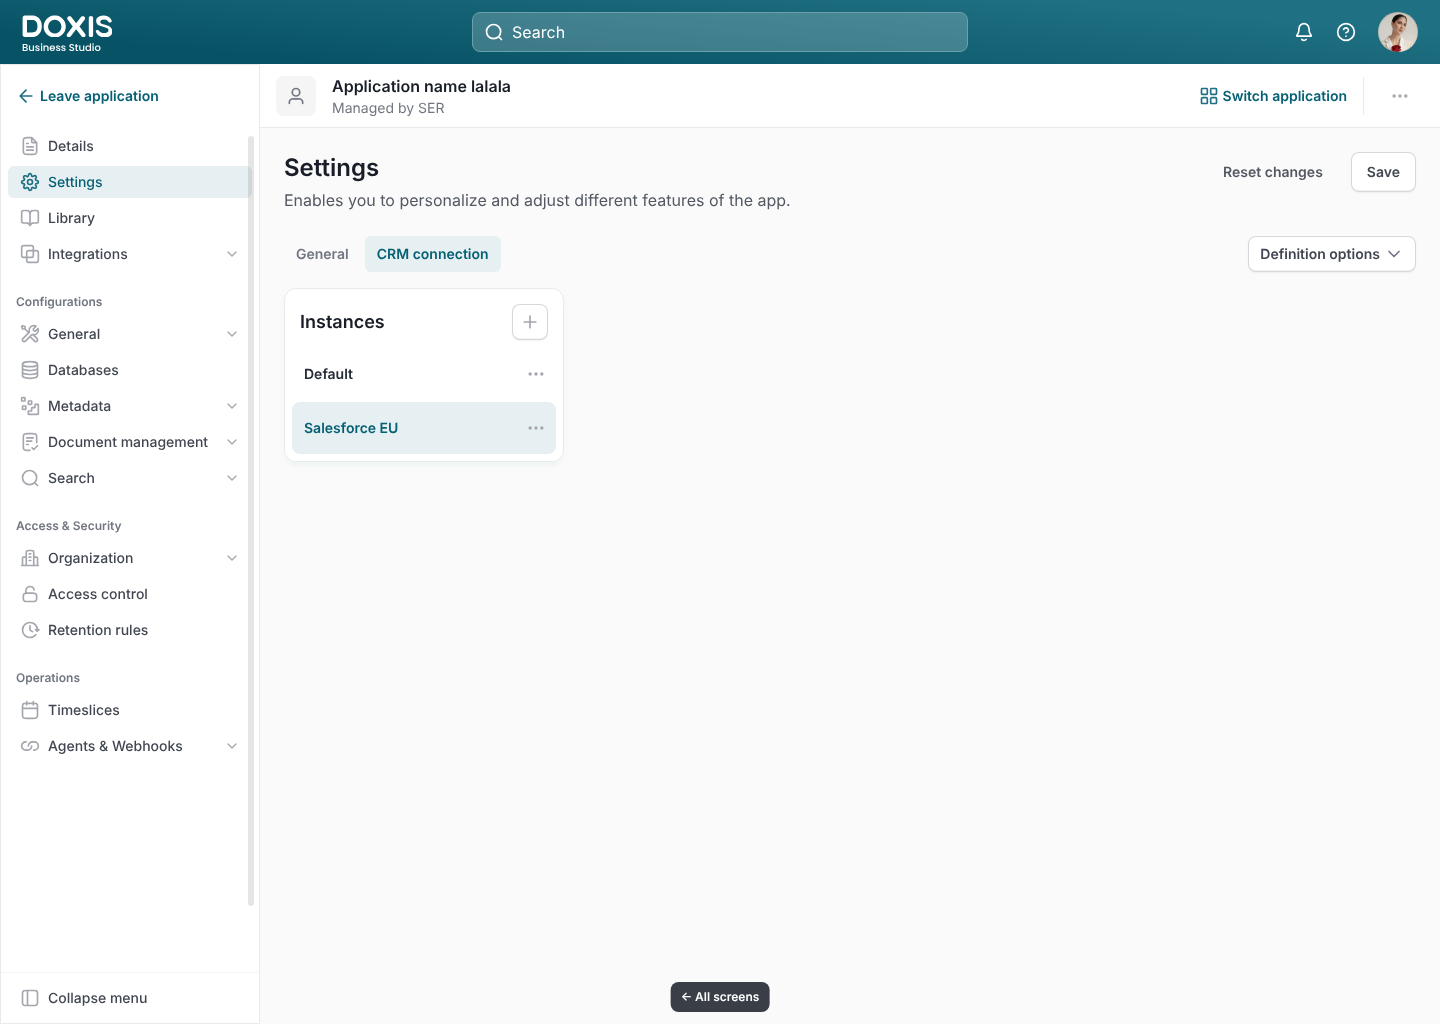
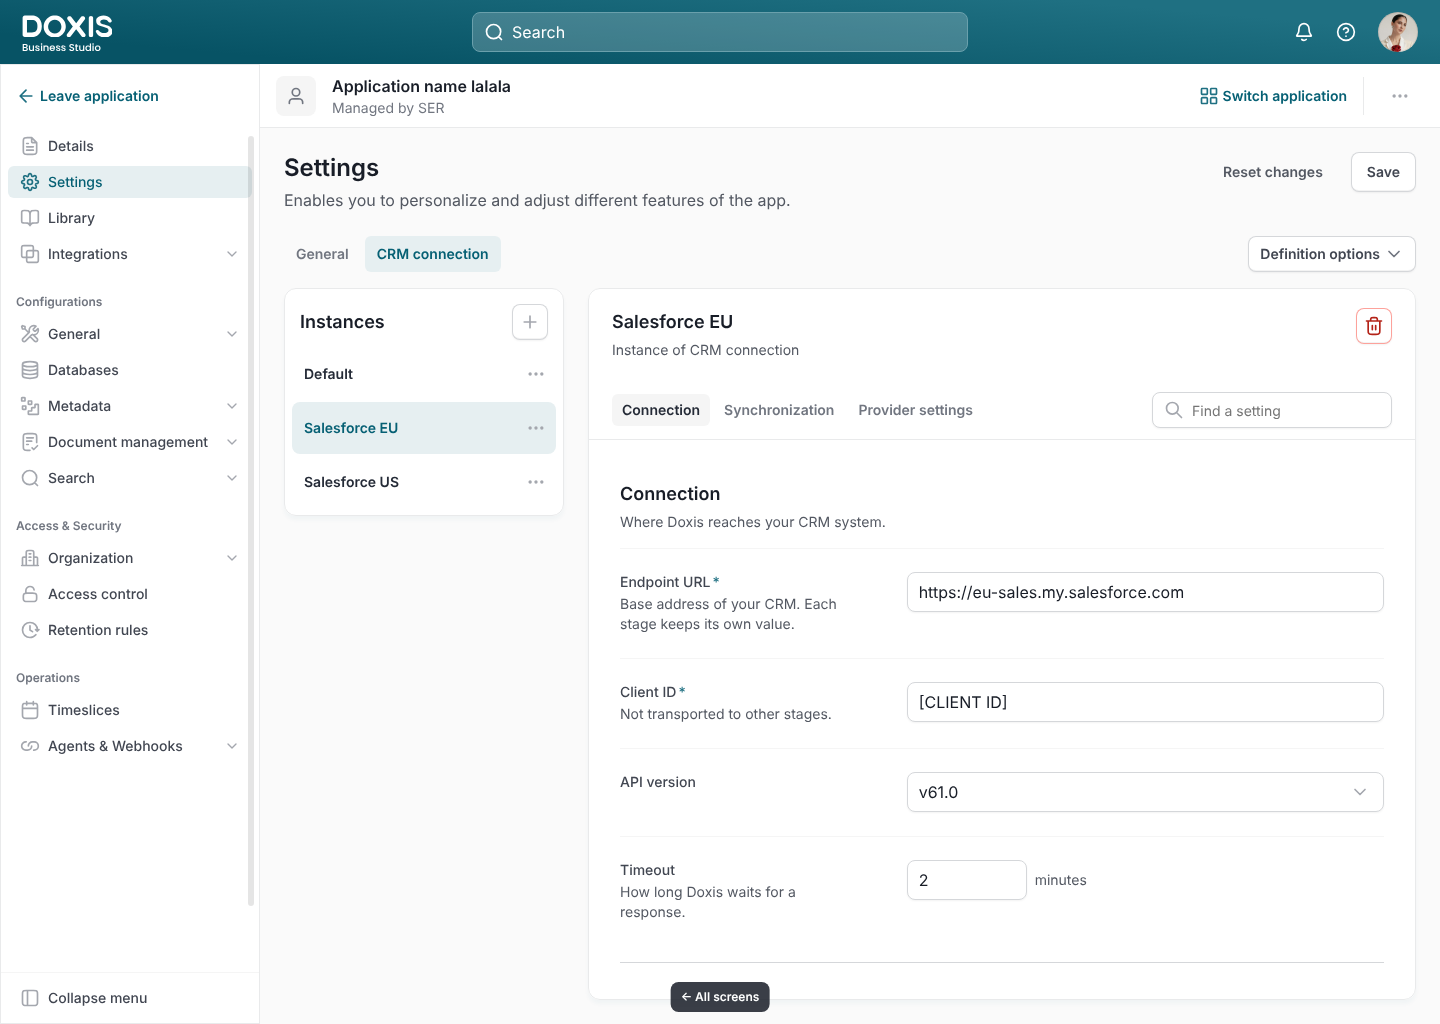
Add files via upload

diff --git a/settings.html b/settings.html
@@ -240,7 +240,7 @@ a{color:#066074}a:hover{color:#05495A}
 </div>
 <ul style="list-style: none; margin: 0; padding: 0 8px 8px; display: flex; flex-direction: column; gap: 2px">
 <li class="ins2"><button class="nm2"><span class="t1">Default</span></button><div style="position: relative"><button class="ib2" aria-label="Actions for Default" aria-haspopup="menu" aria-expanded="false" data-expanded="m.def" data-on="t.def"><svg class="ic" width="20" height="20" viewBox="0 0 24 24" fill="none" stroke="currentColor" stroke-width="2" stroke-linecap="round" stroke-linejoin="round" aria-hidden="true"><path transform="translate(4 11)" d="M9 1C9 1.55 8.55 2 8 2C7.45 2 7 1.55 7 1C7 0.45 7.45 0 8 0C8.55 0 9 0.45 9 1ZM16 1C16 1.55 15.55 2 15 2C14.45 2 14 1.55 14 1C14 0.45 14.45 0 15 0C15.55 0 16 0.45 16 1ZM2 1C2 1.55 1.55 2 1 2C0.45 2 0 1.55 0 1C0 0.45 0.45 0 1 0C1.55 0 2 0.45 2 1Z"></path></svg></button><div data-if="m.def" hidden><div class="mo" role="menu" aria-label="Actions for Default" style="right: 0; top: 36px; min-width: 260px"><button class="moi" role="menuitem" data-on="closeMenu"><svg class="ic" width="20" height="20" viewBox="0 0 24 24" fill="none" stroke="currentColor" stroke-width="2" stroke-linecap="round" stroke-linejoin="round" aria-hidden="true"><path d="M21 15v1.8c0 1.68 0 2.52-.33 3.16a3 3 0 0 1-1.31 1.31C18.72 21.6 17.88 21.6 16.2 21.6H7.8c-1.68 0-2.52 0-3.16-.33a3 3 0 0 1-1.31-1.31C3 19.32 3 18.48 3 16.8V15M17 8l-5-5-5 5M12 3v12"></path></svg>Export settings</button><button class="moi" role="menuitem" data-on="closeMenu"><svg class="ic" width="20" height="20" viewBox="0 0 24 24" fill="none" stroke="currentColor" stroke-width="2" stroke-linecap="round" stroke-linejoin="round" aria-hidden="true"><path d="M21 15v1.8c0 1.68 0 2.52-.33 3.16a3 3 0 0 1-1.31 1.31C18.72 21.6 17.88 21.6 16.2 21.6H7.8c-1.68 0-2.52 0-3.16-.33a3 3 0 0 1-1.31-1.31C3 19.32 3 18.48 3 16.8V15M7 10l5 5 5-5M12 15V3"></path></svg>Import settings</button><button class="moi" role="menuitem" data-on="closeMenu"><svg class="ic" width="20" height="20" viewBox="0 0 24 24" fill="none" stroke="currentColor" stroke-width="2" stroke-linecap="round" stroke-linejoin="round" aria-hidden="true"><path d="M3 21h4.5L19 9.5a3.18 3.18 0 0 0-4.5-4.5L3 16.5V21ZM13.5 6.5l4 4"></path></svg>Rename settings</button><button class="moi" role="menuitem" data-on="closeMenu"><svg class="ic" width="20" height="20" viewBox="0 0 24 24" fill="none" stroke="currentColor" stroke-width="2" stroke-linecap="round" stroke-linejoin="round" aria-hidden="true"><path d="M5 15c-.93 0-1.4 0-1.78-.1a3 3 0 0 1-2.12-2.12C1 12.4 1 11.93 1 11V4.2c0-1.12 0-1.68.22-2.11A2 2 0 0 1 2.09 1.22C2.52 1 3.08 1 4.2 1H11c.93 0 1.4 0 1.78.1a3 3 0 0 1 2.12 2.12c.1.38.1.85.1 1.78M10.2 23h6.6c1.12 0 1.68 0 2.11-.22a2 2 0 0 0 .87-.87c.22-.43.22-.99.22-2.11v-6.6c0-1.12 0-1.68-.22-2.11a2 2 0 0 0-.87-.87C18.48 10 17.92 10 16.8 10h-6.6c-1.12 0-1.68 0-2.11.22a2 2 0 0 0-.87.87C7 11.52 7 12.08 7 13.2v6.6c0 1.12 0 1.68.22 2.11a2 2 0 0 0 .87.87c.43.22.99.22 2.11.22Z" transform="translate(1.5 0) scale(0.9)"></path></svg>Copy settings</button><button class="moi" role="menuitem" data-on="closeMenu"><svg class="ic" width="20" height="20" viewBox="0 0 24 24" fill="none" stroke="currentColor" stroke-width="2" stroke-linecap="round" stroke-linejoin="round" aria-hidden="true"><path d="M2 10s2.005-2.732 3.634-4.362a9 9 0 1 1-2.282 8.862M2 10V4m0 6h6"></path></svg>Restore default settings</button><button class="moi" role="menuitem" data-on="closeMenu"><svg class="ic" style="color: #D92D20" width="20" height="20" viewBox="0 0 24 24" fill="none" stroke="currentColor" stroke-width="2" stroke-linecap="round" stroke-linejoin="round" aria-hidden="true"><path d="M16 6v-.8c0-1.12 0-1.68-.22-2.11a2 2 0 0 0-.87-.87C14.48 2 13.92 2 12.8 2h-1.6c-1.12 0-1.68 0-2.11.22a2 2 0 0 0-.87.87C8 3.52 8 4.08 8 5.2V6M10 11.5v5M14 11.5v5M3 6h18M19 6v11.2c0 1.68 0 2.52-.33 3.16a3 3 0 0 1-1.31 1.31c-.64.33-1.48.33-3.16.33H9.8c-1.68 0-2.52 0-3.16-.33a3 3 0 0 1-1.31-1.31C5 19.72 5 18.88 5 17.2V6"></path></svg>Delete settings</button></div></div></div></li>
-<li class="ins2 on"><button class="nm2" aria-current="true"><span class="t1">Salesforce EU</span></button><div style="position: relative"><button class="ib2" aria-label="Actions for Salesforce EU" aria-haspopup="menu" aria-expanded="false" data-expanded="m.eu" data-on="t.eu"><svg class="ic" width="20" height="20" viewBox="0 0 24 24" fill="none" stroke="currentColor" stroke-width="2" stroke-linecap="round" stroke-linejoin="round" aria-hidden="true"><path transform="translate(4 11)" d="M9 1C9 1.55 8.55 2 8 2C7.45 2 7 1.55 7 1C7 0.45 7.45 0 8 0C8.55 0 9 0.45 9 1ZM16 1C16 1.55 15.55 2 15 2C14.45 2 14 1.55 14 1C14 0.45 14.45 0 15 0C15.55 0 16 0.45 16 1ZM2 1C2 1.55 1.55 2 1 2C0.45 2 0 1.55 0 1C0 0.45 0.45 0 1 0C1.55 0 2 0.45 2 1Z"></path></svg></button><div data-if="m.eu" hidden><div class="mo" role="menu" aria-label="Actions for Salesforce EU" style="right: 0; top: 36px; min-width: 260px"><button class="moi" role="menuitem" data-on="closeMenu"><svg class="ic" width="20" height="20" viewBox="0 0 24 24" fill="none" stroke="currentColor" stroke-width="2" stroke-linecap="round" stroke-linejoin="round" aria-hidden="true"><path d="M21 15v1.8c0 1.68 0 2.52-.33 3.16a3 3 0 0 1-1.31 1.31C18.72 21.6 17.88 21.6 16.2 21.6H7.8c-1.68 0-2.52 0-3.16-.33a3 3 0 0 1-1.31-1.31C3 19.32 3 18.48 3 16.8V15M17 8l-5-5-5 5M12 3v12"></path></svg>Export settings</button><button class="moi" role="menuitem" data-on="closeMenu"><svg class="ic" width="20" height="20" viewBox="0 0 24 24" fill="none" stroke="currentColor" stroke-width="2" stroke-linecap="round" stroke-linejoin="round" aria-hidden="true"><path d="M21 15v1.8c0 1.68 0 2.52-.33 3.16a3 3 0 0 1-1.31 1.31C18.72 21.6 17.88 21.6 16.2 21.6H7.8c-1.68 0-2.52 0-3.16-.33a3 3 0 0 1-1.31-1.31C3 19.32 3 18.48 3 16.8V15M7 10l5 5 5-5M12 15V3"></path></svg>Import settings</button><button class="moi" role="menuitem" data-on="closeMenu"><svg class="ic" width="20" height="20" viewBox="0 0 24 24" fill="none" stroke="currentColor" stroke-width="2" stroke-linecap="round" stroke-linejoin="round" aria-hidden="true"><path d="M3 21h4.5L19 9.5a3.18 3.18 0 0 0-4.5-4.5L3 16.5V21ZM13.5 6.5l4 4"></path></svg>Rename settings</button><button class="moi" role="menuitem" data-on="closeMenu"><svg class="ic" width="20" height="20" viewBox="0 0 24 24" fill="none" stroke="currentColor" stroke-width="2" stroke-linecap="round" stroke-linejoin="round" aria-hidden="true"><path d="M5 15c-.93 0-1.4 0-1.78-.1a3 3 0 0 1-2.12-2.12C1 12.4 1 11.93 1 11V4.2c0-1.12 0-1.68.22-2.11A2 2 0 0 1 2.09 1.22C2.52 1 3.08 1 4.2 1H11c.93 0 1.4 0 1.78.1a3 3 0 0 1 2.12 2.12c.1.38.1.85.1 1.78M10.2 23h6.6c1.12 0 1.68 0 2.11-.22a2 2 0 0 0 .87-.87c.22-.43.22-.99.22-2.11v-6.6c0-1.12 0-1.68-.22-2.11a2 2 0 0 0-.87-.87C18.48 10 17.92 10 16.8 10h-6.6c-1.12 0-1.68 0-2.11.22a2 2 0 0 0-.87.87C7 11.52 7 12.08 7 13.2v6.6c0 1.12 0 1.68.22 2.11a2 2 0 0 0 .87.87c.43.22.99.22 2.11.22Z" transform="translate(1.5 0) scale(0.9)"></path></svg>Copy settings</button><button class="moi" role="menuitem" data-on="closeMenu"><svg class="ic" width="20" height="20" viewBox="0 0 24 24" fill="none" stroke="currentColor" stroke-width="2" stroke-linecap="round" stroke-linejoin="round" aria-hidden="true"><path d="M2 10s2.005-2.732 3.634-4.362a9 9 0 1 1-2.282 8.862M2 10V4m0 6h6"></path></svg>Restore default settings</button><button class="moi" role="menuitem" data-on="closeMenu"><svg class="ic" style="color: #D92D20" width="20" height="20" viewBox="0 0 24 24" fill="none" stroke="currentColor" stroke-width="2" stroke-linecap="round" stroke-linejoin="round" aria-hidden="true"><path d="M16 6v-.8c0-1.12 0-1.68-.22-2.11a2 2 0 0 0-.87-.87C14.48 2 13.92 2 12.8 2h-1.6c-1.12 0-1.68 0-2.11.22a2 2 0 0 0-.87.87C8 3.52 8 4.08 8 5.2V6M10 11.5v5M14 11.5v5M3 6h18M19 6v11.2c0 1.68 0 2.52-.33 3.16a3 3 0 0 1-1.31 1.31c-.64.33-1.48.33-3.16.33H9.8c-1.68 0-2.52 0-3.16-.33a3 3 0 0 1-1.31-1.31C5 19.72 5 18.88 5 17.2V6"></path></svg>Delete settings</button></div></div></li></div></div></li></div>
+<li class="ins2 on"><button class="nm2" aria-current="true"><span class="t1">Salesforce EU</span></button><div style="position: relative"><button class="ib2" aria-label="Actions for Salesforce EU" aria-haspopup="menu" aria-expanded="false" data-expanded="m.eu" data-on="t.eu"><svg class="ic" width="20" height="20" viewBox="0 0 24 24" fill="none" stroke="currentColor" stroke-width="2" stroke-linecap="round" stroke-linejoin="round" aria-hidden="true"><path transform="translate(4 11)" d="M9 1C9 1.55 8.55 2 8 2C7.45 2 7 1.55 7 1C7 0.45 7.45 0 8 0C8.55 0 9 0.45 9 1ZM16 1C16 1.55 15.55 2 15 2C14.45 2 14 1.55 14 1C14 0.45 14.45 0 15 0C15.55 0 16 0.45 16 1ZM2 1C2 1.55 1.55 2 1 2C0.45 2 0 1.55 0 1C0 0.45 0.45 0 1 0C1.55 0 2 0.45 2 1Z"></path></svg></button><div data-if="m.eu" hidden><div class="mo" role="menu" aria-label="Actions for Salesforce EU" style="right: 0; top: 36px; min-width: 260px"><button class="moi" role="menuitem" data-on="closeMenu"><svg class="ic" width="20" height="20" viewBox="0 0 24 24" fill="none" stroke="currentColor" stroke-width="2" stroke-linecap="round" stroke-linejoin="round" aria-hidden="true"><path d="M21 15v1.8c0 1.68 0 2.52-.33 3.16a3 3 0 0 1-1.31 1.31C18.72 21.6 17.88 21.6 16.2 21.6H7.8c-1.68 0-2.52 0-3.16-.33a3 3 0 0 1-1.31-1.31C3 19.32 3 18.48 3 16.8V15M17 8l-5-5-5 5M12 3v12"></path></svg>Export settings</button><button class="moi" role="menuitem" data-on="closeMenu"><svg class="ic" width="20" height="20" viewBox="0 0 24 24" fill="none" stroke="currentColor" stroke-width="2" stroke-linecap="round" stroke-linejoin="round" aria-hidden="true"><path d="M21 15v1.8c0 1.68 0 2.52-.33 3.16a3 3 0 0 1-1.31 1.31C18.72 21.6 17.88 21.6 16.2 21.6H7.8c-1.68 0-2.52 0-3.16-.33a3 3 0 0 1-1.31-1.31C3 19.32 3 18.48 3 16.8V15M7 10l5 5 5-5M12 15V3"></path></svg>Import settings</button><button class="moi" role="menuitem" data-on="closeMenu"><svg class="ic" width="20" height="20" viewBox="0 0 24 24" fill="none" stroke="currentColor" stroke-width="2" stroke-linecap="round" stroke-linejoin="round" aria-hidden="true"><path d="M3 21h4.5L19 9.5a3.18 3.18 0 0 0-4.5-4.5L3 16.5V21ZM13.5 6.5l4 4"></path></svg>Rename settings</button><button class="moi" role="menuitem" data-on="closeMenu"><svg class="ic" width="20" height="20" viewBox="0 0 24 24" fill="none" stroke="currentColor" stroke-width="2" stroke-linecap="round" stroke-linejoin="round" aria-hidden="true"><path d="M5 15c-.93 0-1.4 0-1.78-.1a3 3 0 0 1-2.12-2.12C1 12.4 1 11.93 1 11V4.2c0-1.12 0-1.68.22-2.11A2 2 0 0 1 2.09 1.22C2.52 1 3.08 1 4.2 1H11c.93 0 1.4 0 1.78.1a3 3 0 0 1 2.12 2.12c.1.38.1.85.1 1.78M10.2 23h6.6c1.12 0 1.68 0 2.11-.22a2 2 0 0 0 .87-.87c.22-.43.22-.99.22-2.11v-6.6c0-1.12 0-1.68-.22-2.11a2 2 0 0 0-.87-.87C18.48 10 17.92 10 16.8 10h-6.6c-1.12 0-1.68 0-2.11.22a2 2 0 0 0-.87.87C7 11.52 7 12.08 7 13.2v6.6c0 1.12 0 1.68.22 2.11a2 2 0 0 0 .87.87c.43.22.99.22 2.11.22Z" transform="translate(1.5 0) scale(0.9)"></path></svg>Copy settings</button><button class="moi" role="menuitem" data-on="closeMenu"><svg class="ic" width="20" height="20" viewBox="0 0 24 24" fill="none" stroke="currentColor" stroke-width="2" stroke-linecap="round" stroke-linejoin="round" aria-hidden="true"><path d="M2 10s2.005-2.732 3.634-4.362a9 9 0 1 1-2.282 8.862M2 10V4m0 6h6"></path></svg>Restore default settings</button><button class="moi" role="menuitem" data-on="closeMenu"><svg class="ic" style="color: #D92D20" width="20" height="20" viewBox="0 0 24 24" fill="none" stroke="currentColor" stroke-width="2" stroke-linecap="round" stroke-linejoin="round" aria-hidden="true"><path d="M16 6v-.8c0-1.12 0-1.68-.22-2.11a2 2 0 0 0-.87-.87C14.48 2 13.92 2 12.8 2h-1.6c-1.12 0-1.68 0-2.11.22a2 2 0 0 0-.87.87C8 3.52 8 4.08 8 5.2V6M10 11.5v5M14 11.5v5M3 6h18M19 6v11.2c0 1.68 0 2.52-.33 3.16a3 3 0 0 1-1.31 1.31c-.64.33-1.48.33-3.16.33H9.8c-1.68 0-2.52 0-3.16-.33a3 3 0 0 1-1.31-1.31C5 19.72 5 18.88 5 17.2V6"></path></svg>Delete settings</button></div></div></div></li>
 <li class="ins2"><button class="nm2"><span class="t1">Salesforce US</span></button><div style="position: relative"><button class="ib2" aria-label="Actions for Salesforce US" aria-haspopup="menu" aria-expanded="false" data-expanded="m.us" data-on="t.us"><svg class="ic" width="20" height="20" viewBox="0 0 24 24" fill="none" stroke="currentColor" stroke-width="2" stroke-linecap="round" stroke-linejoin="round" aria-hidden="true"><path transform="translate(4 11)" d="M9 1C9 1.55 8.55 2 8 2C7.45 2 7 1.55 7 1C7 0.45 7.45 0 8 0C8.55 0 9 0.45 9 1ZM16 1C16 1.55 15.55 2 15 2C14.45 2 14 1.55 14 1C14 0.45 14.45 0 15 0C15.55 0 16 0.45 16 1ZM2 1C2 1.55 1.55 2 1 2C0.45 2 0 1.55 0 1C0 0.45 0.45 0 1 0C1.55 0 2 0.45 2 1Z"></path></svg></button><div data-if="m.us" hidden><div class="mo" role="menu" aria-label="Actions for Salesforce US" style="right: 0; top: 36px; min-width: 260px"><button class="moi" role="menuitem" data-on="closeMenu"><svg class="ic" width="20" height="20" viewBox="0 0 24 24" fill="none" stroke="currentColor" stroke-width="2" stroke-linecap="round" stroke-linejoin="round" aria-hidden="true"><path d="M21 15v1.8c0 1.68 0 2.52-.33 3.16a3 3 0 0 1-1.31 1.31C18.72 21.6 17.88 21.6 16.2 21.6H7.8c-1.68 0-2.52 0-3.16-.33a3 3 0 0 1-1.31-1.31C3 19.32 3 18.48 3 16.8V15M17 8l-5-5-5 5M12 3v12"></path></svg>Export settings</button><button class="moi" role="menuitem" data-on="closeMenu"><svg class="ic" width="20" height="20" viewBox="0 0 24 24" fill="none" stroke="currentColor" stroke-width="2" stroke-linecap="round" stroke-linejoin="round" aria-hidden="true"><path d="M21 15v1.8c0 1.68 0 2.52-.33 3.16a3 3 0 0 1-1.31 1.31C18.72 21.6 17.88 21.6 16.2 21.6H7.8c-1.68 0-2.52 0-3.16-.33a3 3 0 0 1-1.31-1.31C3 19.32 3 18.48 3 16.8V15M7 10l5 5 5-5M12 15V3"></path></svg>Import settings</button><button class="moi" role="menuitem" data-on="closeMenu"><svg class="ic" width="20" height="20" viewBox="0 0 24 24" fill="none" stroke="currentColor" stroke-width="2" stroke-linecap="round" stroke-linejoin="round" aria-hidden="true"><path d="M3 21h4.5L19 9.5a3.18 3.18 0 0 0-4.5-4.5L3 16.5V21ZM13.5 6.5l4 4"></path></svg>Rename settings</button><button class="moi" role="menuitem" data-on="closeMenu"><svg class="ic" width="20" height="20" viewBox="0 0 24 24" fill="none" stroke="currentColor" stroke-width="2" stroke-linecap="round" stroke-linejoin="round" aria-hidden="true"><path d="M5 15c-.93 0-1.4 0-1.78-.1a3 3 0 0 1-2.12-2.12C1 12.4 1 11.93 1 11V4.2c0-1.12 0-1.68.22-2.11A2 2 0 0 1 2.09 1.22C2.52 1 3.08 1 4.2 1H11c.93 0 1.4 0 1.78.1a3 3 0 0 1 2.12 2.12c.1.38.1.85.1 1.78M10.2 23h6.6c1.12 0 1.68 0 2.11-.22a2 2 0 0 0 .87-.87c.22-.43.22-.99.22-2.11v-6.6c0-1.12 0-1.68-.22-2.11a2 2 0 0 0-.87-.87C18.48 10 17.92 10 16.8 10h-6.6c-1.12 0-1.68 0-2.11.22a2 2 0 0 0-.87.87C7 11.52 7 12.08 7 13.2v6.6c0 1.12 0 1.68.22 2.11a2 2 0 0 0 .87.87c.43.22.99.22 2.11.22Z" transform="translate(1.5 0) scale(0.9)"></path></svg>Copy settings</button><button class="moi" role="menuitem" data-on="closeMenu"><svg class="ic" width="20" height="20" viewBox="0 0 24 24" fill="none" stroke="currentColor" stroke-width="2" stroke-linecap="round" stroke-linejoin="round" aria-hidden="true"><path d="M2 10s2.005-2.732 3.634-4.362a9 9 0 1 1-2.282 8.862M2 10V4m0 6h6"></path></svg>Restore default settings</button><button class="moi" role="menuitem" data-on="closeMenu"><svg class="ic" style="color: #D92D20" width="20" height="20" viewBox="0 0 24 24" fill="none" stroke="currentColor" stroke-width="2" stroke-linecap="round" stroke-linejoin="round" aria-hidden="true"><path d="M16 6v-.8c0-1.12 0-1.68-.22-2.11a2 2 0 0 0-.87-.87C14.48 2 13.92 2 12.8 2h-1.6c-1.12 0-1.68 0-2.11.22a2 2 0 0 0-.87.87C8 3.52 8 4.08 8 5.2V6M10 11.5v5M14 11.5v5M3 6h18M19 6v11.2c0 1.68 0 2.52-.33 3.16a3 3 0 0 1-1.31 1.31c-.64.33-1.48.33-3.16.33H9.8c-1.68 0-2.52 0-3.16-.33a3 3 0 0 1-1.31-1.31C5 19.72 5 18.88 5 17.2V6"></path></svg>Delete settings</button></div></div></div></li>
 
 </ul>
